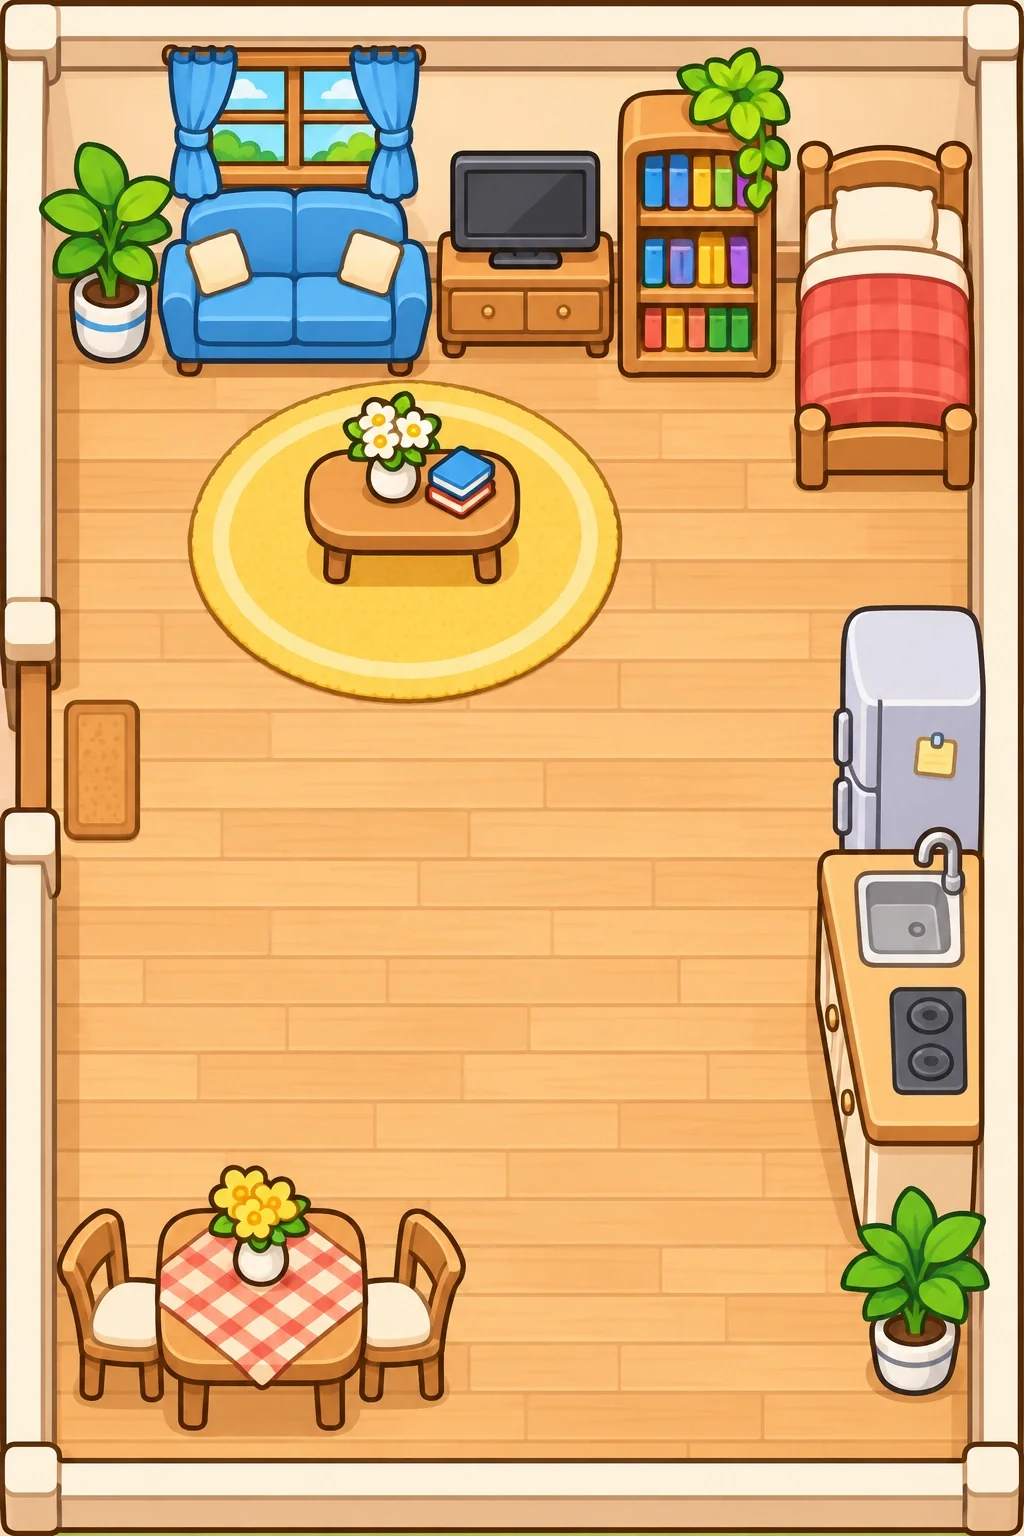
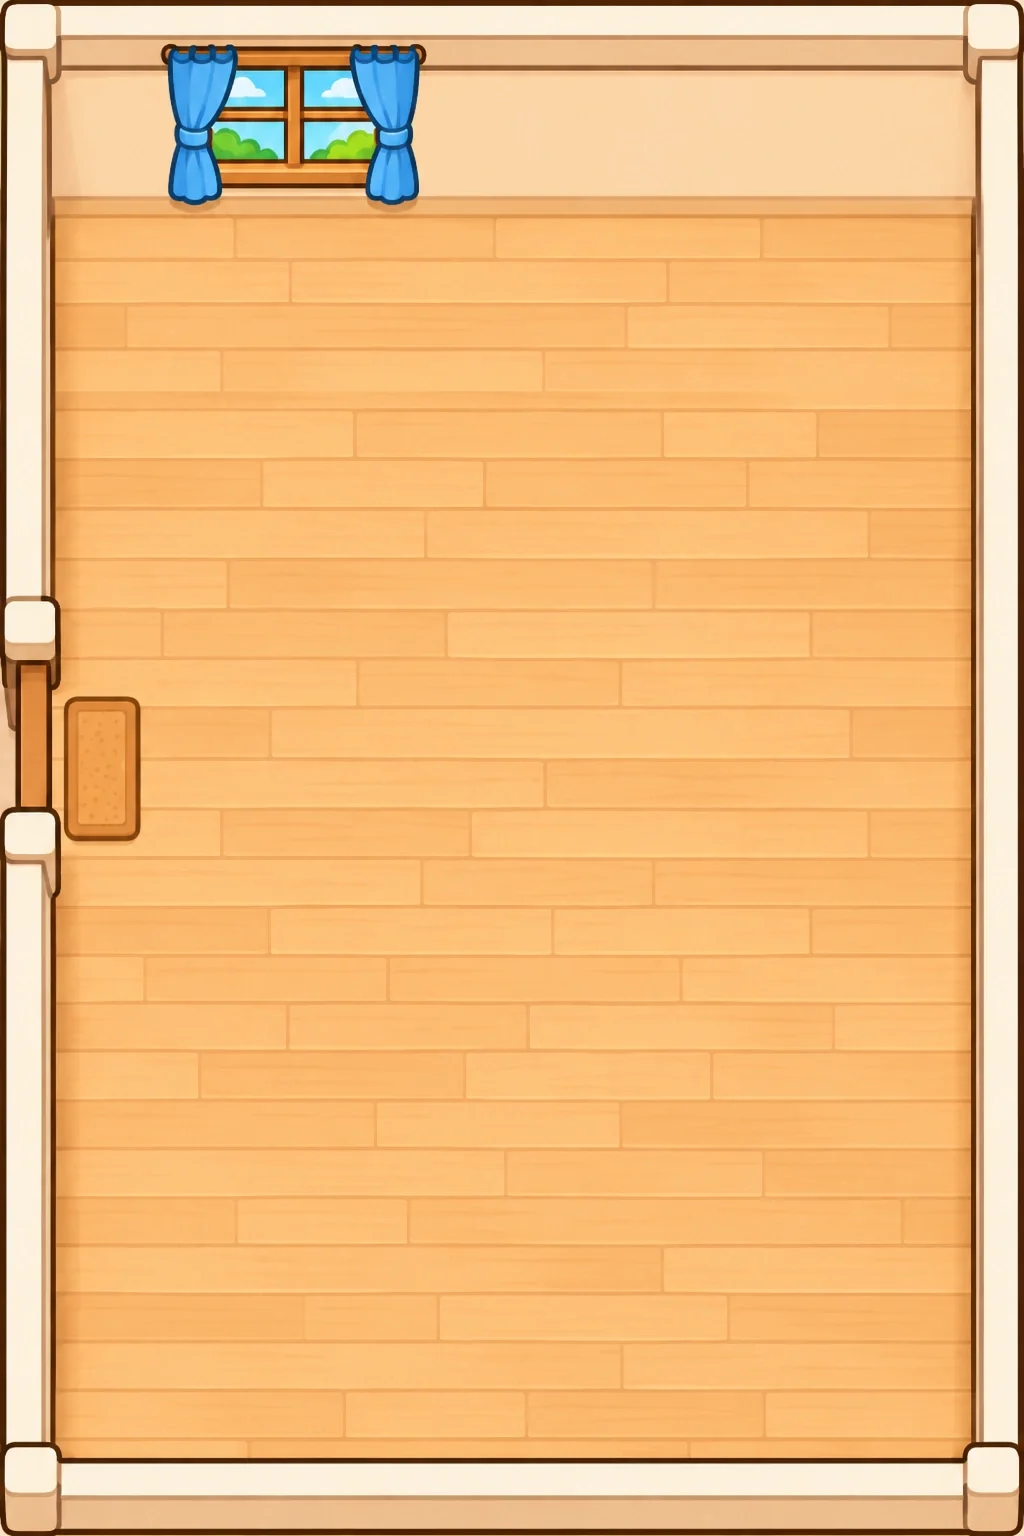
Home: pets stay in the yard, door sound, empty house; add corgi and turtle pets
Claude-Session: https://claude.ai/code/session_01WYXHXwKxHQowMAYmWZLpUL

diff --git a/index.html b/index.html
@@ -294,7 +294,7 @@
 <script>
 // ---- UI icon set (ui_icons.webp, 18 cells in one row) — emoji are shown until it loads ----
 // bump ASSET_V whenever an icon/emote picture changes, so phones download the new one instead of a cached copy
-var ASSET_V='20261120c';
+var ASSET_V='20261120d';
 const IC_N=['logo','pad','freeze','hide','zombie','fire','flash','run','shirt','gear','globe','trophy','girl','boy','jump','tag','logout','hello'];
 const IC={},IC_C={};
 function icFrom(img,i,name){const n=img.height,c=document.createElement('canvas');c.width=c.height=n;c.getContext('2d').drawImage(img,i*n,0,n,n,0,0,n,n);IC_C[name]=c;IC[name]=c.toDataURL();}
@@ -696,7 +696,7 @@ let MAPID='school';
 const HK=0.62;
 const HOME={W:2048*HK,H:1736*HK,RH:200*HK,minY:22*HK,
   // walls, fences & furniture where feet can't go (x,y,w,h in home-world px, measured on home_yard / home_house pictures)
-  rects:[[0,200,435,165],[60,340,330,95],[600,200,424,165],[680,340,320,95],[0,200,45,1536],[0,1620,1024,116],[25,490,165,170],[50,1340,230,240],[240,1510,120,80],[750,1390,274,240],[1024,200,1024,90],[1062,342,135,220],[1182,395,278,172],[1459,350,180,203],[1639,290,165,285],[1819,342,180,345],[1324,650,218,128],[1856,807,150,248],[1841,1047,165,383],[1864,1385,150,210],[1084,1370,405,255],[1999,200,49,1536],[1024,1648,1024,88],[1024,200,45,645],[1024,1010,45,726]].map(r=>({x:r[0]*HK,y:r[1]*HK,w:r[2]*HK,h:r[3]*HK})),
+  rects:[[0,200,435,165],[60,340,330,95],[600,200,424,165],[680,340,320,95],[0,200,45,1536],[0,1620,1024,116],[25,490,165,170],[50,1340,230,240],[240,1510,120,80],[750,1390,274,240],[1024,200,1024,195],[1999,200,49,1536],[1024,1648,1024,88],[1024,200,45,645],[1024,1010,45,726]].map(r=>({x:r[0]*HK,y:r[1]*HK,w:r[2]*HK,h:r[3]*HK})),
   spawn:{x:517*HK,y:120*HK},imgs:{}};
 let portalArmed=false;   // after arriving you must step away from the edge once before a portal works again
 const mapW=()=>MAPID==='home'?HOME.W:WORLD_W, mapH=()=>MAPID==='home'?HOME.H:WORLD_H, mapMinY=()=>MAPID==='home'?HOME.minY:MIN_Y;
@@ -722,7 +722,9 @@ function goMap(id){if(mapBusy||MAPID===id)return;mapBusy=true;const f=$('fade');
     else{MAPID='school';P.x=WORLD_W/2;P.y=WORLD_H-TILE*1.3;P.dir='up';}
     portalArmed=false;P.target=null;P.moving=false;P.frame=0;app.classList.toggle('atHome',MAPID==='home');NET.sendT=0;drawStrip();
     setTimeout(()=>{f.classList.remove('on');mapBusy=false;},120);},280);}
-function checkPortals(vy){if(MG.on||mapBusy)return;
+let inHouse=false;
+function doorCheck(){if(MAPID!=='home'){inHouse=false;return;}const e=1024*HK,now=inHouse?P.x>e-12:P.x>e+12;if(now!==inHouse){inHouse=now;sfxDoor();}}
+function checkPortals(vy){doorCheck();if(MG.on||mapBusy)return;
   if(!portalArmed){if(MAPID==='home'?P.y-HOME.minY>70:WORLD_H-P.y>110)portalArmed=true;return;}
   if(MAPID==='school'&&vy>0&&P.y>=WORLD_H-TILE*.6-2&&Math.abs(P.x-WORLD_W/2)<ROAD_HALF)goMap('home');
   else if(MAPID==='home'&&vy<0&&P.y<=HOME.minY+2)goMap('school');}
@@ -1406,6 +1408,9 @@ function sfxAt(a,fn){if(!SND.ac||!SND.sounds)return;let vol=1,pan=0;
   const ac=SND.ac,g=ac.createGain();g.gain.value=vol;let out=g;if(ac.createStereoPanner){const p=ac.createStereoPanner();p.pan.value=pan;g.connect(p);p.connect(SND.sfx);}else g.connect(SND.sfx);
   fn(ac.currentTime+.01,out);}
 function sfxEmote(a,i){if(EMO_SFX[i])sfxAt(a,EMO_SFX[i]);}
+function sfxDoor(){sfxAt(P,(t,d)=>{   // creak open + soft thud shut
+  tone({type:'sawtooth',f:180,to:260,slide:.25,len:.28,v:.06,t,dest:d,lp:900,q:3,vib:18,vibD:.04});
+  tone({type:'sine',f:120,to:60,slide:.1,len:.16,v:.35,t:t+.42,dest:d});noise({t:t+.42,len:.07,v:.08,ff:900,ft:'lowpass',dest:d});});}
 function sfxPop(a){sfxAt(a,(t,d)=>tone({type:'sine',m:84,to:mtof(91),len:.08,v:.16,t,dest:d}));}
 function sfxJingle(win){sfxAt(P,(t,d)=>{const n=win?[72,76,79,84,79,84]:[72,71,70,67];const l=win?.11:.2;
   n.forEach((m,i)=>tone({type:win?'square':'triangle',m,len:i===n.length-1?.6:l*1.2,v:.14,t:t+i*l,dest:d,lp:3000}));});}
@@ -1490,7 +1495,9 @@ const PET_INFO={   // all 38 pets – stats ready for later
   red_panda:{tame:.6,speed:120},sloth:{tame:.7,speed:28},otter:{tame:.75,speed:160},koala:{tame:.55,speed:35},baby_panda:{tame:.7,speed:70},arctic_fox:{tame:.5,speed:190},baby_penguin:{tame:.8,speed:60}};
 const PET_DEFS={   // pets that have their sprite sheet in the game now
   calico_cat:{name:'Calico Cat',h:100,special:'groom',feel:2,still:[2,3]},     // still pose = eat row, last frame (standing, head up)
-  sloth:{name:'Sloth',h:110,special:'sleep',feel:3,still:[3,0]}};
+  sloth:{name:'Sloth',h:110,special:'sleep',feel:3,still:[3,0]},
+  corgi:{name:'Corgi',h:100,special:'zoomies',feel:7,still:[2,3]},
+  turtle:{name:'Turtle',h:55,special:'hide',feel:3,still:[2,3]}};
 const PETS_IMG={};
 function petImg(id){if(PETS_IMG[id]!==undefined)return PETS_IMG[id];PETS_IMG[id]=null;
   const im=new Image();im.onload=()=>{PETS_IMG[id]=im;};im.onerror=()=>{PETS_IMG[id]=false;};im.src=`pets/${id}_sheet.webp?v=${ASSET_V}`;return null;}
@@ -1499,6 +1506,10 @@ const FOOD=[];   // food dropped on the ground: {x,y,left}
 const PET_SCALE=()=>0.48*S.scale/0.7;                  // pets drawn a little bigger than true scale so kids can see them clearly
 const petH=()=>PET_DEFS[PET.id].h*PET_SCALE();
 const petFoot=()=>{const H=petH();return {rx:H*.42,ry:H*.14};};   // the pet's own "block" on the ground
+// pets live inside the fence: never on the road in front of the house
+const PET_MINY=()=>HOME.RH+175*HK;
+const PET_MAXX=()=>(1024-40)*HK;   // and never inside the house
+const inYard=()=>P.y>PET_MINY()+20&&P.x<PET_MAXX();
 function petHere(){return MAPID==='home'&&PET.id&&PET_DEFS[PET.id]&&PET.placed;}
 // does a body at (x,y) with half-size rx,ry bump into the pet?
 function hitPet(x,y,rx,ry,ox,oy){if(!petHere())return false;const f=petFoot();const v=overlap(x,y,rx,ry,PET,f.rx,f.ry);return v<1&&v<overlap(ox,oy,rx,ry,PET,f.rx,f.ry);}
@@ -1508,7 +1519,7 @@ function dropFood(){if(MAPID!=='home')return;const dx=P.dir&&P.dir.includes('lef
   FOOD.push({x,y,left:1,t0:performance.now()});if(FOOD.length>5)FOOD.shift();sfxPop(P);}
 function petMoveTo(tx,ty,sp,dt){const d=Math.hypot(tx-PET.x,ty-PET.y);if(d<1)return true;const st=Math.min(sp*dt,d),nx=PET.x+(tx-PET.x)/d*st,ny=PET.y+(ty-PET.y)/d*st;
   if(Math.abs(tx-PET.x)>2)PET.face=tx>PET.x?1:-1;const f=petFoot();
-  const ok=(x,y)=>!homeHit(x,y,f.rx*.7,f.ry*.7)&&!(overlap(x,y,f.rx,f.ry,P,FOOT_RX*S.scale,FOOT_RY*S.scale)<1&&overlap(x,y,f.rx,f.ry,P,FOOT_RX*S.scale,FOOT_RY*S.scale)<overlap(PET.x,PET.y,f.rx,f.ry,P,FOOT_RX*S.scale,FOOT_RY*S.scale));
+  const ok=(x,y)=>y>=PET_MINY()&&x<=PET_MAXX()&&!homeHit(x,y,f.rx*.7,f.ry*.7)&&!(overlap(x,y,f.rx,f.ry,P,FOOT_RX*S.scale,FOOT_RY*S.scale)<1&&overlap(x,y,f.rx,f.ry,P,FOOT_RX*S.scale,FOOT_RY*S.scale)<overlap(PET.x,PET.y,f.rx,f.ry,P,FOOT_RX*S.scale,FOOT_RY*S.scale));
   if(ok(nx,ny)){PET.x=nx;PET.y=ny;PET.side=0;return false;}if(ok(nx,PET.y)){PET.x=nx;return false;}if(ok(PET.x,ny)){PET.y=ny;return false;}
   // blocked (by you or furniture): walk round it to one side, keep that side for a while
   const ux=(tx-PET.x)/d,uy=(ty-PET.y)/d;if(!PET.side)PET.side=Math.random()<.5?1:-1;
@@ -1516,7 +1527,7 @@ function petMoveTo(tx,ty,sp,dt){const d=Math.hypot(tx-PET.x,ty-PET.y);if(d<1)ret
   PET.stuck=(PET.stuck||0)+dt;return false;}
 function updatePet(dt){if(MAPID!=='home'||!PET.id||!PET_DEFS[PET.id]){PET.placed=false;return;}
   const info=PET_INFO[PET.id],sp=info.speed*(S.speed/200);
-  if(!PET.placed){PET.x=P.x-70;PET.y=P.y+20;PET.placed=true;PET.state='stand';PET.wander=null;}
+  if(!PET.placed){if(inYard()){PET.x=P.x-70;PET.y=P.y+20;}else{PET.x=(430+80)*HK;PET.y=PET_MINY()+120*HK;}PET.placed=true;PET.state='stand';PET.wander=null;}
   PET.t+=dt;PET.st+=dt;
   // eating / showing love: stay put until done
   if(PET.state==='eat'){if(PET.food&&FOOD.includes(PET.food)){PET.food.left-=dt/4;if(PET.food.left<=0){FOOD.splice(FOOD.indexOf(PET.food),1);PET.food=null;petAction('love');}}else if(PET.st>3)PET.state='stand';return;}
@@ -1529,8 +1540,9 @@ function updatePet(dt){if(MAPID!=='home'||!PET.id||!PET_DEFS[PET.id]){PET.placed
   // 2) follow the owner – how close and how often depends on tameness
   const followD=40+(1-info.tame)*120,d=dist(PET,P);
   PET.wantT-=dt;if(PET.wantT<=0){PET.wantT=2+Math.random()*3;PET.follow=Math.random()<info.tame+.15;
-    if(!PET.follow){PET.wander={x:clamp(PET.x+(Math.random()-.5)*360,60,HOME.W-60),y:clamp(PET.y+(Math.random()-.5)*260,HOME.RH+80,HOME.H-60)};}else PET.wander=null;}
-  if(d>500){const f=petFoot();PET.x=P.x-70;PET.y=P.y+20;}                       // far behind (e.g. you went inside): catch up
+    if(!PET.follow){PET.wander={x:clamp(PET.x+(Math.random()-.5)*360,60,PET_MAXX()-20),y:clamp(PET.y+(Math.random()-.5)*260,PET_MINY()+20,HOME.H-60)};}else PET.wander=null;}
+  if(d>500&&inYard()){PET.x=P.x-70;PET.y=P.y+20;}                      // far behind (e.g. you went inside): catch up
+  if(!inYard()){PET.follow=false;}                                      // you are out on the road: wait in the yard
   if(PET.follow&&d>followD){const ux=(P.x-PET.x)/d,uy=(P.y-PET.y)/d;petMoveTo(P.x-ux*followD*.8,P.y-uy*followD*.6,sp*(d>followD*2.5?1.15:1),dt);if(PET.state!=='walk'){PET.state='walk';PET.st=0;}return;}
   if(!PET.follow&&PET.wander&&PET.stuck<1){if(petMoveTo(PET.wander.x,PET.wander.y,sp*.6,dt)){PET.wander=null;}else{if(PET.state!=='walk'){PET.state='walk';PET.st=0;}return;}}
   PET.stuck=0;
@@ -1555,7 +1567,7 @@ function drawPet(){if(!petHere())return;const def=PET_DEFS[PET.id],H=petH(),t=PE
 function buildPetPanel(){const box=$('petPanel');box.innerHTML='';
   const sec=(title,opts,cur,on)=>{const h=document.createElement('div');h.className='petLbl';h.textContent=title;box.appendChild(h);const row=document.createElement('div');row.className='petRow';
     opts.forEach(([v,l])=>{const b=document.createElement('button');b.textContent=l;if(v===cur)b.classList.add('on');b.onclick=e=>{e.stopPropagation();on(v);buildPetPanel();};row.appendChild(b);});box.appendChild(row);};
-  sec('Pet',[['calico_cat','🐱 Calico Cat'],['sloth','🦥 Sloth'],[null,'None']],PET.id,v=>{PET.id=v;PET.placed=false;lsSet('sw_pet',v);});
+  sec('Pet',[['calico_cat','🐱 Cat'],['corgi','🐶 Corgi'],['sloth','🦥 Sloth'],['turtle','🐢 Turtle'],[null,'None']],PET.id,v=>{PET.id=v;PET.placed=false;lsSet('sw_pet',v);});
   sec('Do',[['food','🍖 Drop food'],['love','❤ Pet it'],['special','💤 Own action']],null,v=>{if(v==='food')dropFood();else petAction(v);});
   if(PET.id&&PET_INFO[PET.id]){const i=PET_INFO[PET.id],p=document.createElement('div');p.className='petStat';
     p.innerHTML=`Tame <b>${'★'.repeat(Math.round(i.tame*5))}${'☆'.repeat(5-Math.round(i.tame*5))}</b> &nbsp; Speed <b>${'★'.repeat(Math.max(1,Math.round(i.speed/42)))}${'☆'.repeat(5-Math.max(1,Math.round(i.speed/42)))}</b>`;box.appendChild(p);}
